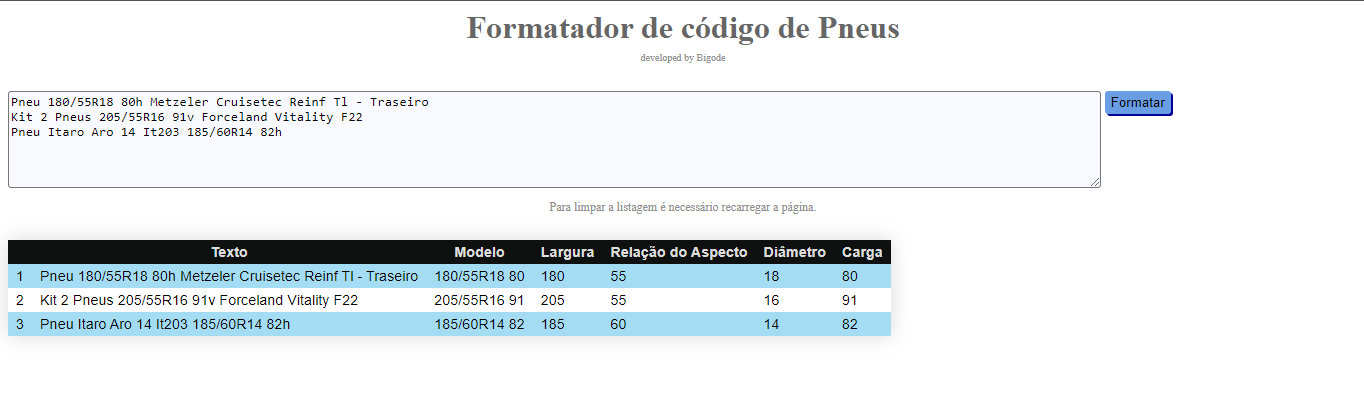
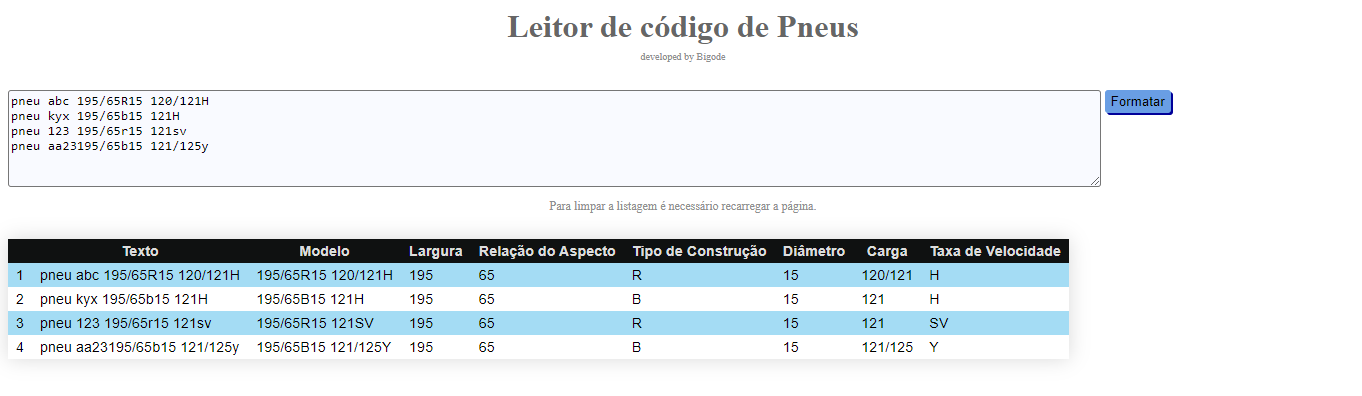
updated tire formatting project

diff --git a/projects/formatador_de_pneus.html b/projects/formatador_de_pneus.html
@@ -1,13 +1,14 @@
 <html>
-<title>Formatador de Pneus</title>
+<title>Decodificador de Pneus</title>
 
 <body>
-  <h1>Formatador de código de Pneus</h1>
+  <h1>Leitor de código de Pneus</h1>
   <p class="subtitle">developed by Bigode</p>
   </br>
 
   <div class="container">
-    <textarea class="mlbs_input" type="text" placeholder="Cole aqui os títulos separados por vírgula ou por linha"
+    <textarea class="mlbs_input" type="text"
+      placeholder="Cole aqui os títulos separados por linha. Exemplo de formatos suportados (000/00R00 000/000H) ou (000/00R00 000ZR)"
       id="text_list"></textarea>
     <input class="buttons" type="button" value="Formatar" id="text_list_button">
   </div>
@@ -15,21 +16,21 @@
   <p class="subtitle2">Para limpar a listagem é necessário recarregar a página.</p>
 
   <script>
-
-
-
     // Cria uma tabela no HTML
     const table = document.createElement('table');
 
     // Cria o cabeçalho
     const row_header = document.createElement('tr');
+
     const index = document.createElement('th');
     const texto = document.createElement('th');
     const pneu = document.createElement('th');
     const largura = document.createElement('th');
     const aspecto = document.createElement('th');
+    const construction = document.createElement('th');
     const diametro = document.createElement('th');
     const carga = document.createElement('th');
+    const speed = document.createElement('th');
 
 
     // Preenche o cabeçalho
@@ -38,8 +39,11 @@
     pneu.textContent = 'Modelo';
     largura.textContent = 'Largura';
     aspecto.textContent = 'Relação do Aspecto';
+    construction.textContent = 'Tipo de Construção';
     diametro.textContent = 'Diâmetro';
     carga.textContent = 'Carga';
+    speed.textContent = 'Taxa de Velocidade';
+
 
     // Inclui os valores na linha do cabeçalho
     row_header.appendChild(index);
@@ -47,14 +51,18 @@
     row_header.appendChild(pneu);
     row_header.appendChild(largura);
     row_header.appendChild(aspecto);
+    row_header.appendChild(construction);
     row_header.appendChild(diametro);
     row_header.appendChild(carga);
+    row_header.appendChild(speed);
 
     table.appendChild(row_header);
 
     function formatTires(tire, index) {
-      const regex = /(\d+)\/(\d+)R(\d+) (\d+)/;
-      const match = tire.match(regex);
+      // regex: 3 números, /, um ou mais números, uma ou mais letras em maiúsculo, um ou mais números, (um ou mais números ou um ou mais números, /, um ou mais números), uma ou mais letras em maiúsculo
+      const regex = new RegExp('([0-9]{3})\/([0-9]+)([A-Z]+)([0-9]+) ([0-9]+|[0-9]+\/[0-9]+)([A-Z]+)');
+      const match = tire.toUpperCase().match(regex);
+
 
       const row = document.createElement('tr');
       const index_cell = document.createElement('td');
@@ -62,8 +70,10 @@
       const model_cell = document.createElement('td');
       const width_cell = document.createElement('td');
       const aspect_cell = document.createElement('td');
+      const construction_cell = document.createElement('td');
       const load_cell = document.createElement('td');
       const diameter_cell = document.createElement('td');
+      const speed_cell = document.createElement('td');
 
 
       index_cell.textContent = index + 1;
@@ -71,8 +81,10 @@
       model_cell.textContent = match ? match[0] : ' - ';
       width_cell.textContent = match ? match[1] : ' - ';
       aspect_cell.textContent = match ? match[2] : ' - ';
-      load_cell.textContent = match ? match[4] : ' - ';
-      diameter_cell.textContent = match ? match[3] : ' - ';
+      construction_cell.textContent = match ? match[3] : ' - ';
+      diameter_cell.textContent = match ? match[4] : ' - ';
+      load_cell.textContent = match ? match[5] : ' - ';
+      speed_cell.textContent = match ? match[6] : ' - ';
 
 
       row.appendChild(index_cell);
@@ -80,18 +92,21 @@
       row.appendChild(model_cell);
       row.appendChild(width_cell);
       row.appendChild(aspect_cell);
+      row.appendChild(construction_cell);
       row.appendChild(diameter_cell);
       row.appendChild(load_cell);
+      row.appendChild(speed_cell);
+
       table.appendChild(row);
+
       document.body.appendChild(table);
     }
 
 
-
+    // Aciona o formatador
     document.getElementById("text_list_button").addEventListener('click', event => {
       const input_value = document.getElementById("text_list").value
       let text_list = input_value.split('\n');
-      console.log('tamanho', text_list.length);
 
       text_list.forEach((text, index) => formatTires(text, index));
     });
@@ -106,6 +121,7 @@
     --red: red;
   }
 
+  /* Table Style */
   table {
     border-collapse: collapse;
     margin: 25px 0;
@@ -135,6 +151,7 @@
     padding: 4px 8px;
   }
 
+
   a {
     text-decoration: none;
     font-size: 16px;
@@ -147,6 +164,7 @@
   a:hover {
     color: #ff8100;
   }
+
 
   h1 {
     color: rgb(102, 102, 102);

diff --git a/index.html b/index.html
@@ -60,7 +60,8 @@
     <div class="project_info">
       <h3><a href="https://victor-reghini.github.io/single_file_projects/projects/formatador_de_pneus.html"
           target="_blank" rel="noopener noreferrer">Leitor de códigos de Pneus</a></h3>
-      <p>Lê títulos ou apenas códigos de pneus e extrai informações como Largura, Aspecto, Carga e Diâmetro.</p>
+      <p>Lê títulos ou apenas códigos de pneus e extrai informações como Largura, Aspecto, Tipo de Construção, Diâmetro,
+        Carga e Taxa de Velocidade.</p>
       <img src="./images/formatador_de_pneus.png">
     </div>
 
